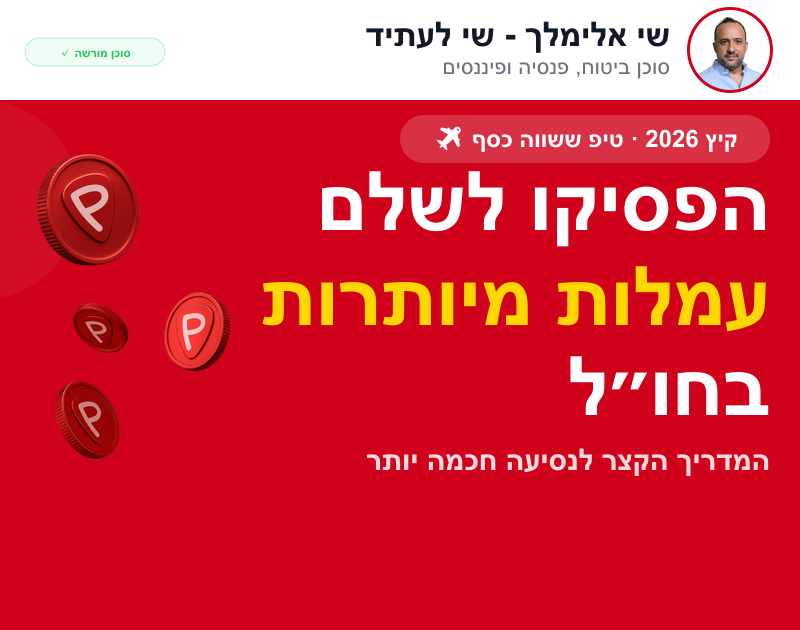
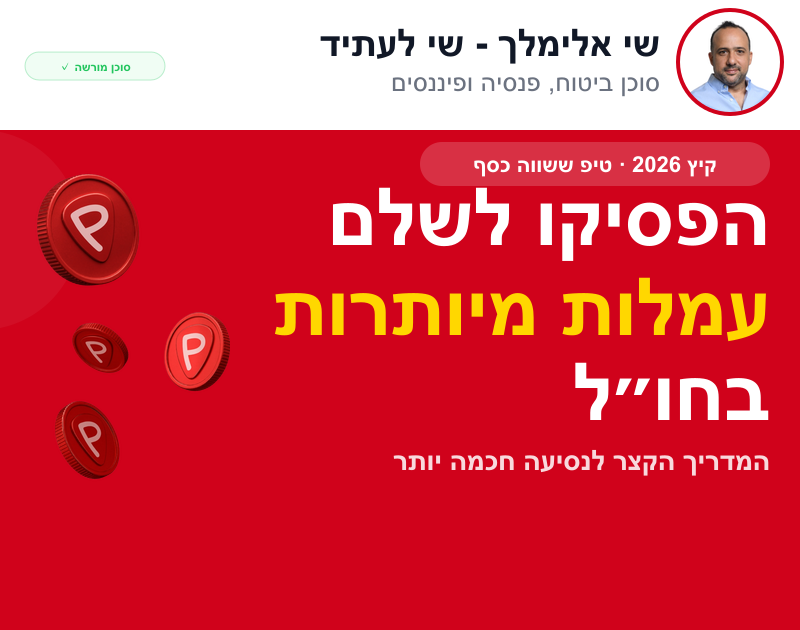
Enlarge agent info in OG preview — taller header, bigger photo/name
Header 100→130px, photo 80→100px, name 34→38px, title 22→26px.
Removed emoji from badge (renders poorly in SVG). Airplane icon
will be added separately.

diff --git a/scripts/generate-og.js b/scripts/generate-og.js
@@ -17,20 +17,20 @@ const BASE_IMG = path.join(ROOT, 'public', 'images', 'og-base.png');
 const AGENTS_DIR = path.join(ROOT, 'public', 'images', 'agents');
 const OG_DIR = path.join(ROOT, 'public', 'images', 'og');
 
-// Layout config (800x630 base image, 100px header)
-const CIRCLE_DIAMETER = 80;
-const CIRCLE_X = 690;
-const CIRCLE_Y = 10;
-const BORDER_WIDTH = 3;
+// Layout config (800x630 base image, 130px header)
+const CIRCLE_DIAMETER = 100;
+const CIRCLE_X = 680;
+const CIRCLE_Y = 12;
+const BORDER_WIDTH = 4;
 const BORDER_COLOR = '#D0021B';
 
-const NAME_X = 670;
-const NAME_Y = 12;
-const NAME_FONT_SIZE = 34;
+const NAME_X = 660;
+const NAME_Y = 18;
+const NAME_FONT_SIZE = 38;
 
-const TITLE_X = 670;
-const TITLE_Y = 52;
-const TITLE_FONT_SIZE = 22;
+const TITLE_X = 660;
+const TITLE_Y = 65;
+const TITLE_FONT_SIZE = 26;
 
 function escapeXml(str) {
   return str.replace(/&/g, '&amp;').replace(/</g, '&lt;').replace(/>/g, '&gt;').replace(/"/g, '&quot;').replace(/'/g, '&apos;');
